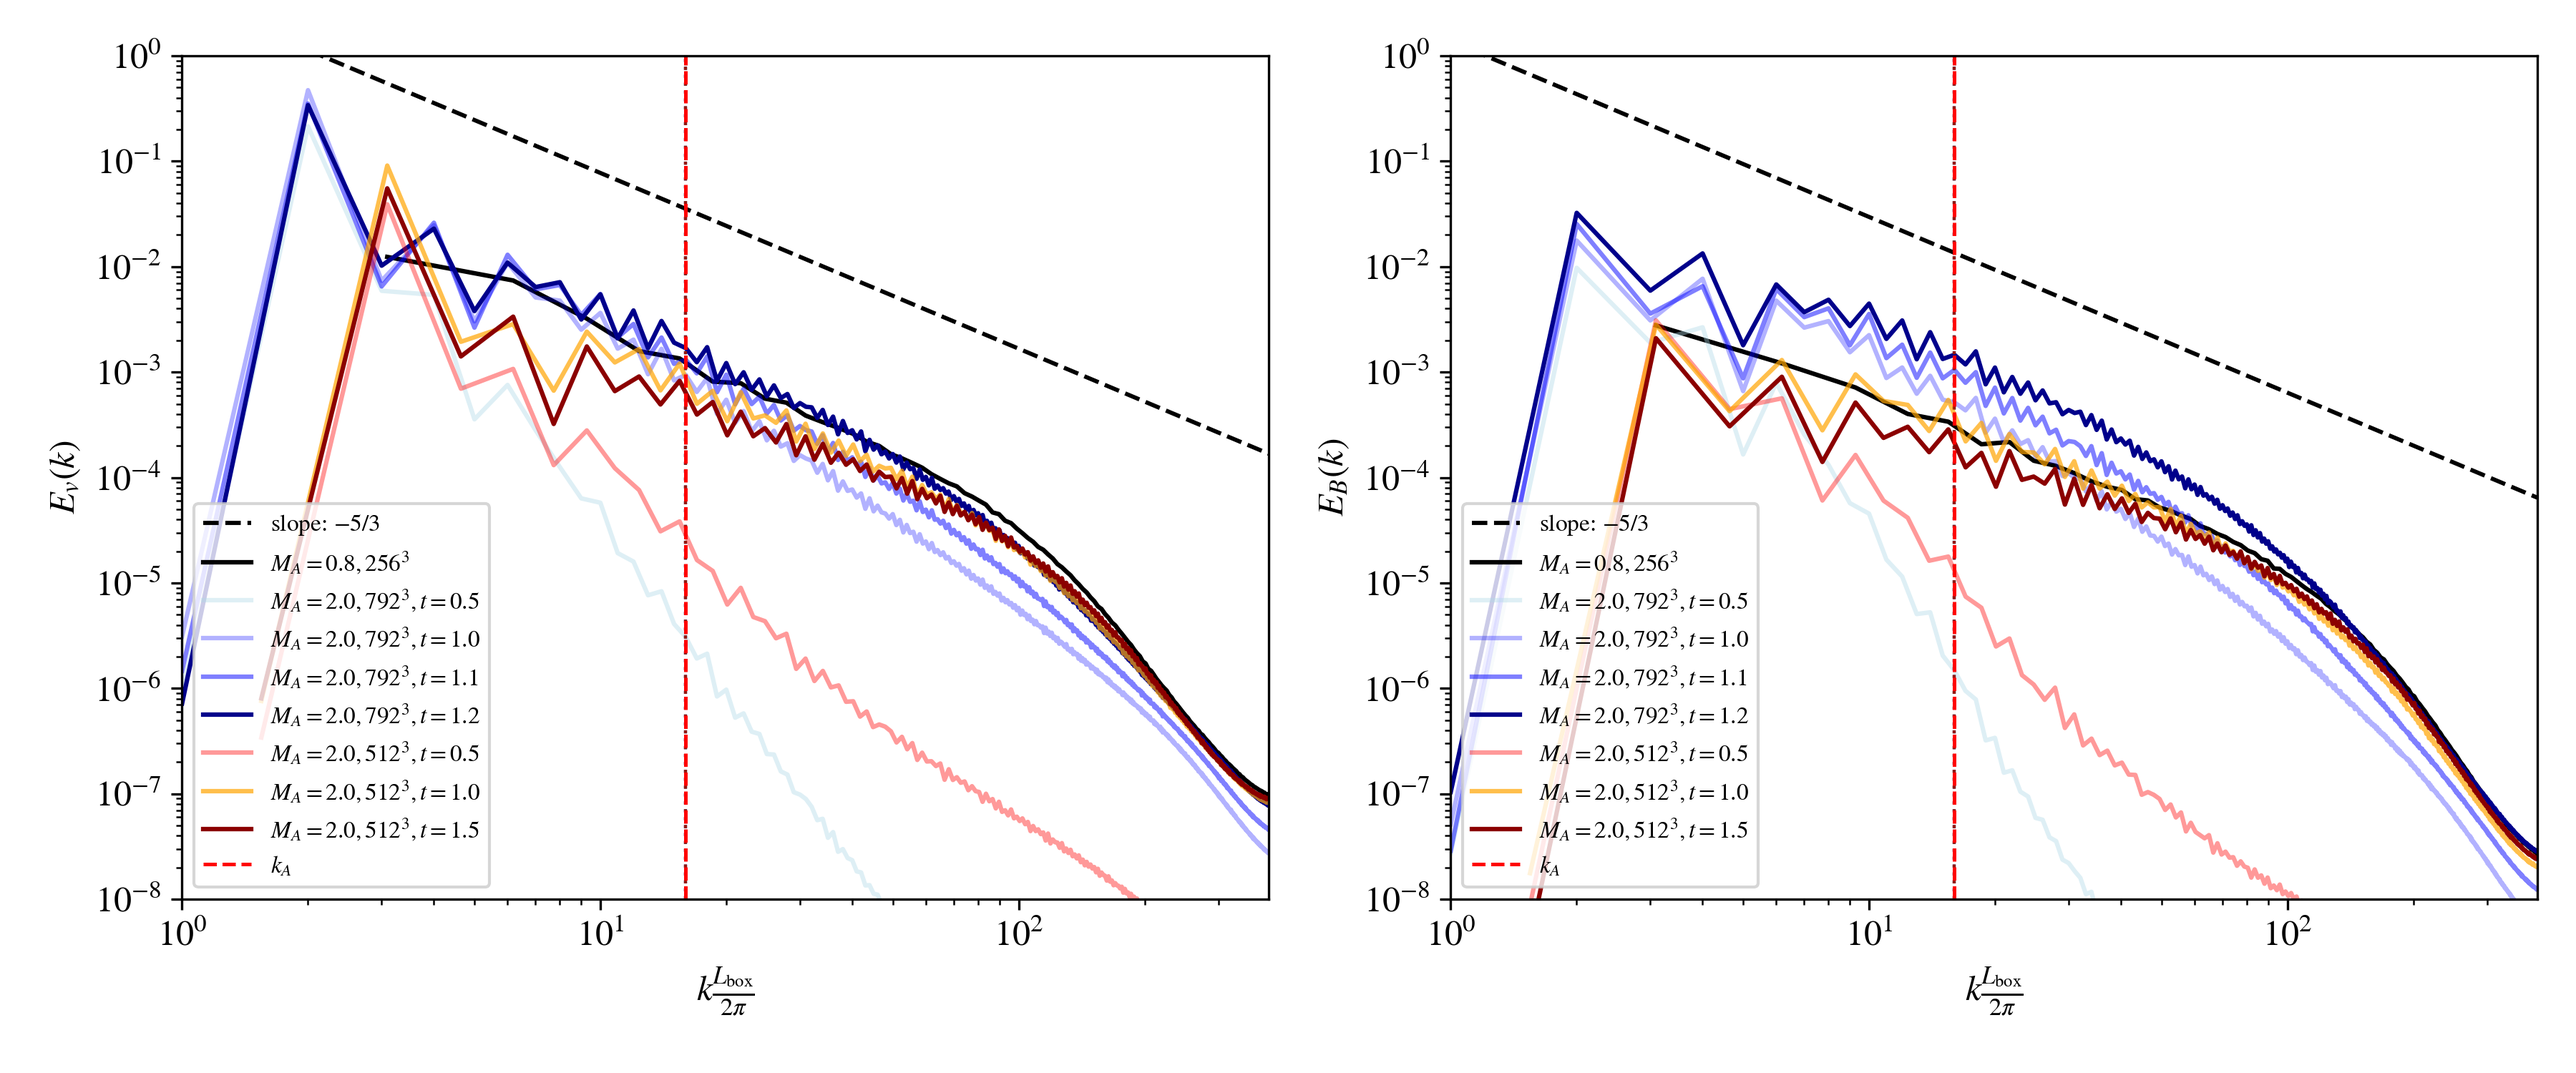
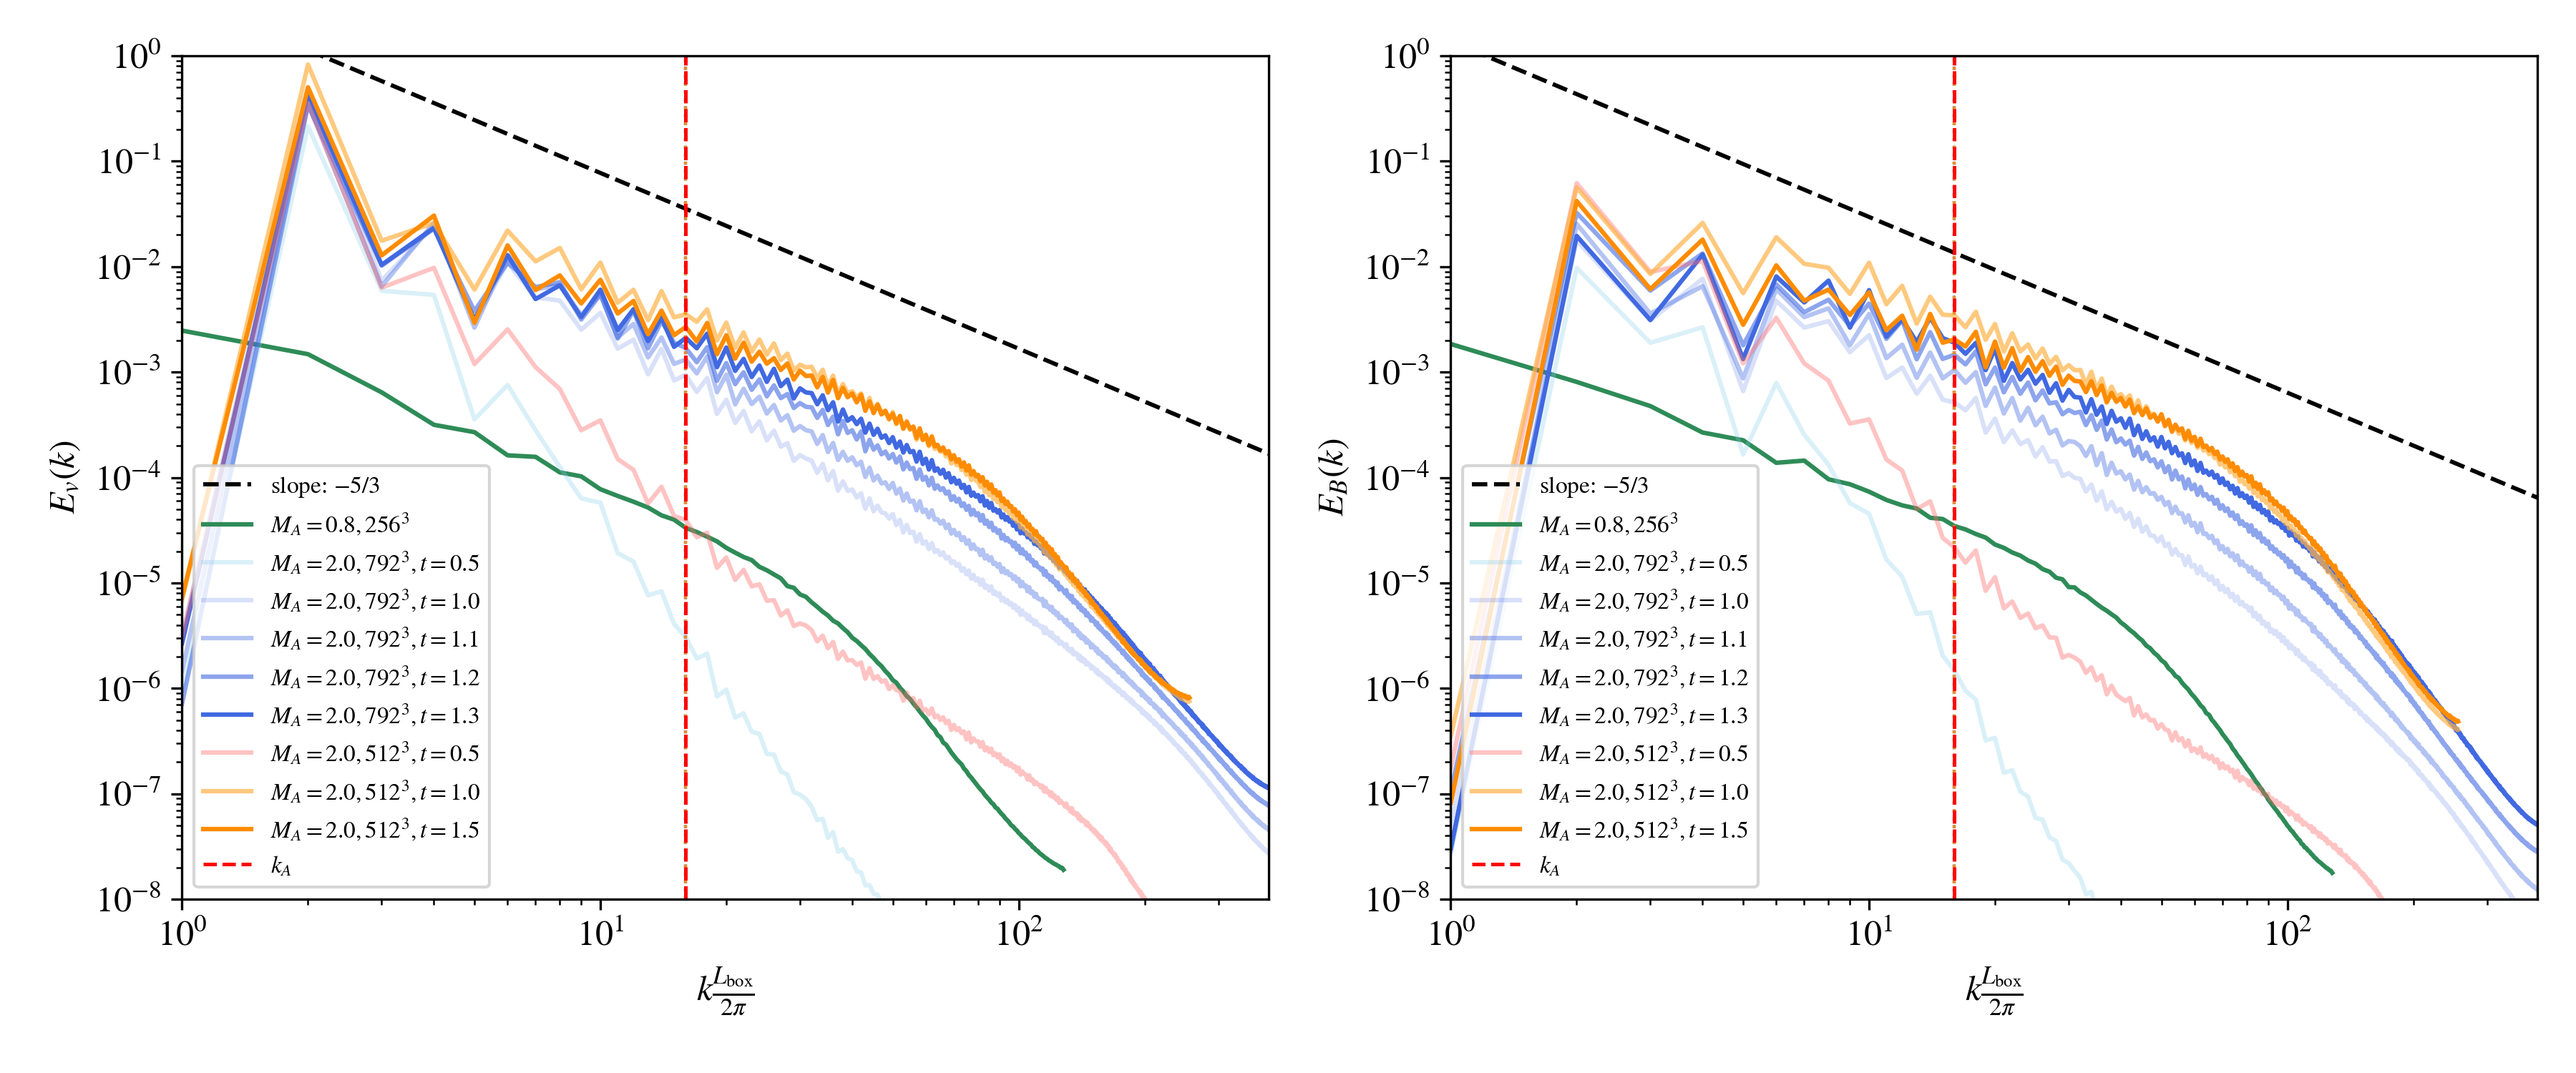
New simulation: M_A=2.0, 792^3, t=1.3

diff --git a/vel_b_spectrum/boxes_comparison/recreate_figure.py b/vel_b_spectrum/boxes_comparison/recreate_figure.py
@@ -8,15 +8,17 @@ def _slope_guide(k, E, exponent=-5/3, f1=0.07, f2=0.35, s=10):
 
 def replot(npz="M_A=2.0, 792^3, t=1.0.npz", meta="M_A=2.0, 792^3, t=1.0.json", out="spectrum_replot.png"):
     data_files = [
-        ("M_A=0.8, 256^3.npz", "M_A=0.8, 256^3.json", r"$M_A=0.8, 256^3$", "black", 1.0),
-        ("M_A=2.0, 792^3, t=0.5.npz", "M_A=2.0, 792^3, t=0.5.json", r"$M_A=2.0, 792^3, t=0.5$", "lightblue", 0.4),
-        ("M_A=2.0, 792^3, t=1.0.npz", "M_A=2.0, 792^3, t=1.0.json", r"$M_A=2.0, 792^3, t=1.0$", "blue", 0.3),
-        ("M_A=2.0, 792^3, t=1.1.npz", "M_A=2.0, 792^3, t=1.1.json", r"$M_A=2.0, 792^3, t=1.1$", "blue", 0.5),
-        ("M_A=2.0, 792^3, t=1.2.npz", "M_A=2.0, 792^3, t=1.2.json", r"$M_A=2.0, 792^3, t=1.2$", "darkblue", 1.0),
-        ("M_A=2.0, 512^3, t=0.5.npz", "M_A=2.0, 512^3, t=0.5.json", r"$M_A=2.0, 512^3, t=0.5$", "red", 0.4),
-        ("M_A=2.0, 512^3, t=1.0.npz", "M_A=2.0, 512^3, t=1.0.json", r"$M_A=2.0, 512^3, t=1.0$", "orange", 0.7),
-        ("M_A=2.0, 512^3, t=1.5.npz", "M_A=2.0, 512^3, t=1.5.json", r"$M_A=2.0, 512^3, t=1.5$", "darkred", 1.0)
+        ("M_A=0.8, 256^3.npz", "M_A=0.8, 256^3.json", r"$M_A=0.8, 256^3$", "#2E8B57", 1.0),  # Sea Green
+        ("M_A=2.0, 792^3, t=0.5.npz", "M_A=2.0, 792^3, t=0.5.json", r"$M_A=2.0, 792^3, t=0.5$", "#87CEEB", 0.3),  # Sky Blue
+        ("M_A=2.0, 792^3, t=1.0.npz", "M_A=2.0, 792^3, t=1.0.json", r"$M_A=2.0, 792^3, t=1.0$", "#4169E1", 0.2),  # Royal Blue
+        ("M_A=2.0, 792^3, t=1.1.npz", "M_A=2.0, 792^3, t=1.1.json", r"$M_A=2.0, 792^3, t=1.1$", "#4169E1", 0.4),  # Royal Blue
+        ("M_A=2.0, 792^3, t=1.2.npz", "M_A=2.0, 792^3, t=1.2.json", r"$M_A=2.0, 792^3, t=1.2$", "#4169E1", 0.6),  # Royal Blue
+        ("M_A=2.0, 792^3, t=1.3.npz", "M_A=2.0, 792^3, t=1.3.json", r"$M_A=2.0, 792^3, t=1.3$", "#4169E1", 1.0),  # Royal Blue
+        ("M_A=2.0, 512^3, t=0.5.npz", "M_A=2.0, 512^3, t=0.5.json", r"$M_A=2.0, 512^3, t=0.5$", "#FF6B6B", 0.4),  # Coral Red
+        ("M_A=2.0, 512^3, t=1.0.npz", "M_A=2.0, 512^3, t=1.0.json", r"$M_A=2.0, 512^3, t=1.0$", "#FFB347", 0.7),  # Peach
+        ("M_A=2.0, 512^3, t=1.5.npz", "M_A=2.0, 512^3, t=1.5.json", r"$M_A=2.0, 512^3, t=1.5$", "#FF8C00", 1.0)   # Dark Orange
     ]
+    
     
     plt.rcParams.update({"font.family":"STIXGeneral","font.size":12,"mathtext.fontset":"stix"})
     fig, (ax1, ax2) = plt.subplots(1,2,figsize=(12,5))
@@ -31,53 +33,36 @@ def replot(npz="M_A=2.0, 792^3, t=1.0.npz", meta="M_A=2.0, 792^3, t=1.0.json", o
     for ax, g in [(ax1, gv[mask_main]), (ax2, gb[mask_main])]:
         ax.loglog(kv_main[mask_main], g*50, "--", lw=1.4, label="slope: $-5/3$", c='k')
     
-    # Collect kA values first to find common position
-    kA_values = []
-    for npz_file, meta_file, label, color, alpha in data_files:
-        try:
-            m_add = json.load(open(meta_file))
-            kA_add = m_add["kA"]
-            kA_values.append(kA_add)
-        except:
-            kA_values.append(None)
-    
-    # Use the first valid kA as reference (or find median)
-    reference_kA = next((kA for kA in kA_values if kA is not None), None)
-    
     # Plot kA lines and data curves
-    for i, (npz_file, meta_file, label, color, alpha) in enumerate(data_files):
+    for npz_file, meta_file, label, color, alpha in data_files:
         try:
             a_add = np.load(npz_file)
             m_add = json.load(open(meta_file))
             kv_add, Ev_add, kb_add, Eb_add, kA_add = a_add["k_v"], a_add["E_v"], a_add["k_b"], a_add["E_b"], m_add["kA"]
             
-            # Scale x-axis for lower resolutions
-            if "512" in label:
-                scale_factor = (792/2) / (512/2)  # 396/256 = 1.547
-                kv_add = kv_add * scale_factor
-                kb_add = kb_add * scale_factor
+            # Get resolution limit
+            if "792" in label:
+                xlim_max = 792/2
+            elif "512" in label:
+                xlim_max = 512/2
             elif "256" in label:
-                scale_factor = (792/2) / (256/2)  # 396/128 = 3.094
-                kv_add = kv_add * scale_factor
-                kb_add = kb_add * scale_factor
+                xlim_max = 256/2
+            else:
+                xlim_max = 792/2  # default
             
             # Filter data
-            mask = kv_add <= 792/2
+            mask = kv_add <= xlim_max
             kv_f, Ev_f, kb_f, Eb_f = kv_add[mask], Ev_add[mask], kb_add[mask], Eb_add[mask]
             
-            # Plot kA line at reference position (all overlap)
-            if reference_kA is not None:
-                ax1.axvline(reference_kA, ls=":", lw=1.0, c=color, alpha=alpha*0.7)
-                ax2.axvline(reference_kA, ls=":", lw=1.0, c=color, alpha=alpha*0.7)
+            # Plot kA line if within limit
+            if kA_add <= xlim_max:
+                ax1.axvline(kA_add, ls=":", lw=1.0, c=color, alpha=alpha*0.7)
+                ax2.axvline(kA_add, ls=":", lw=1.0, c=color, alpha=alpha*0.7)
             
             # Plot spectra
-            if "256" in label:
-                Ev_f *= 5
-                Eb_f *= 1.5
-            if "512" in label:
-                Ev_f *= 0.11 
-                Eb_f *= 0.05
-
+            # if "256" in label:
+            #     Ev_f *= 30 
+            #     Eb_f *= 30
 
             ax1.loglog(kv_f, Ev_f, lw=1.5, label=label, c=color, alpha=alpha)
             ax2.loglog(kb_f, Eb_f, lw=1.5, label=label, c=color, alpha=alpha)
